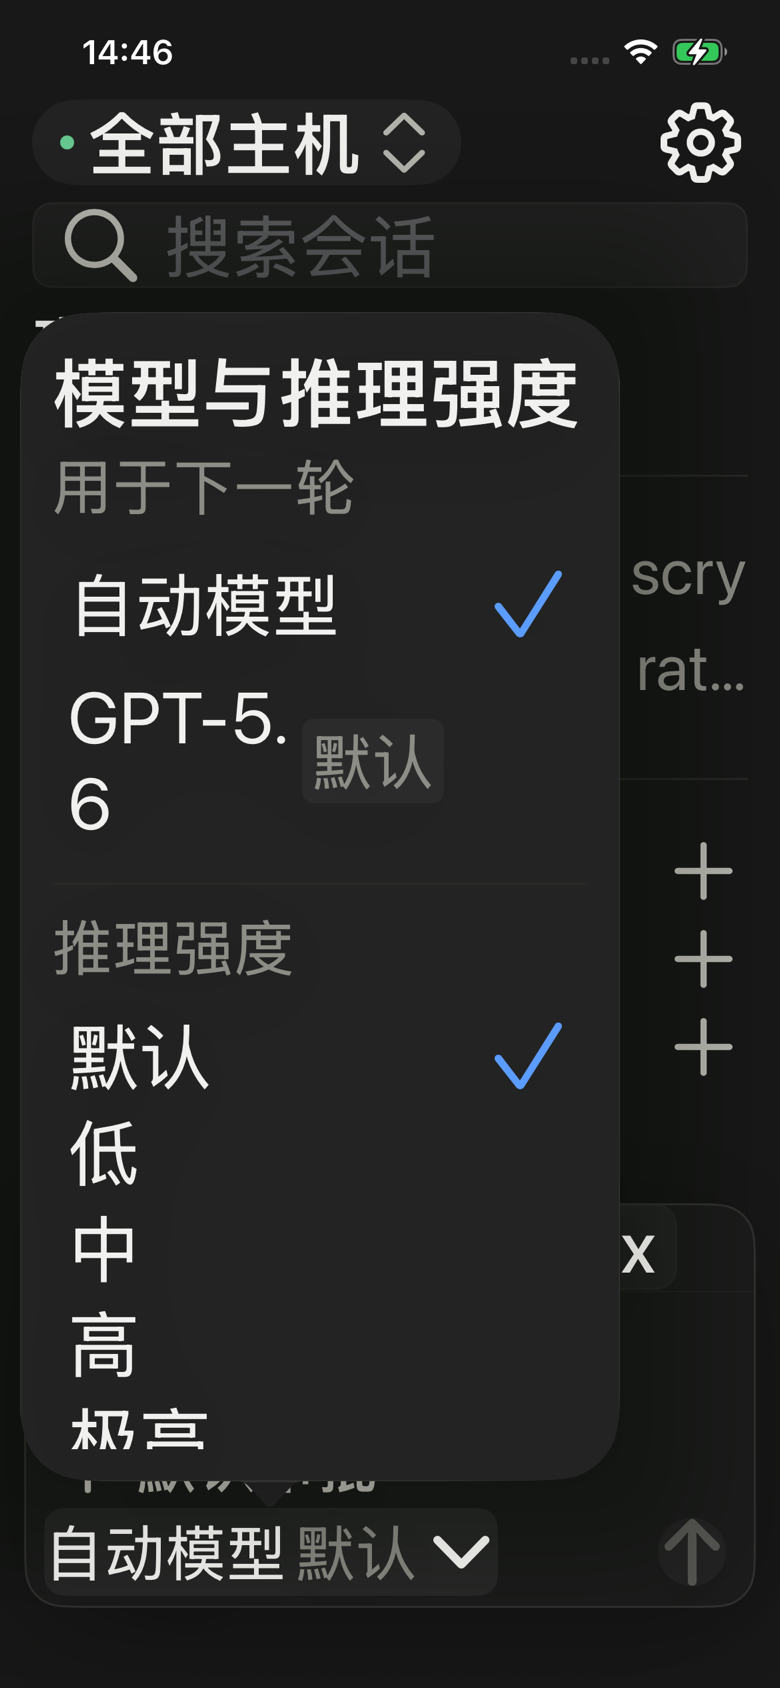
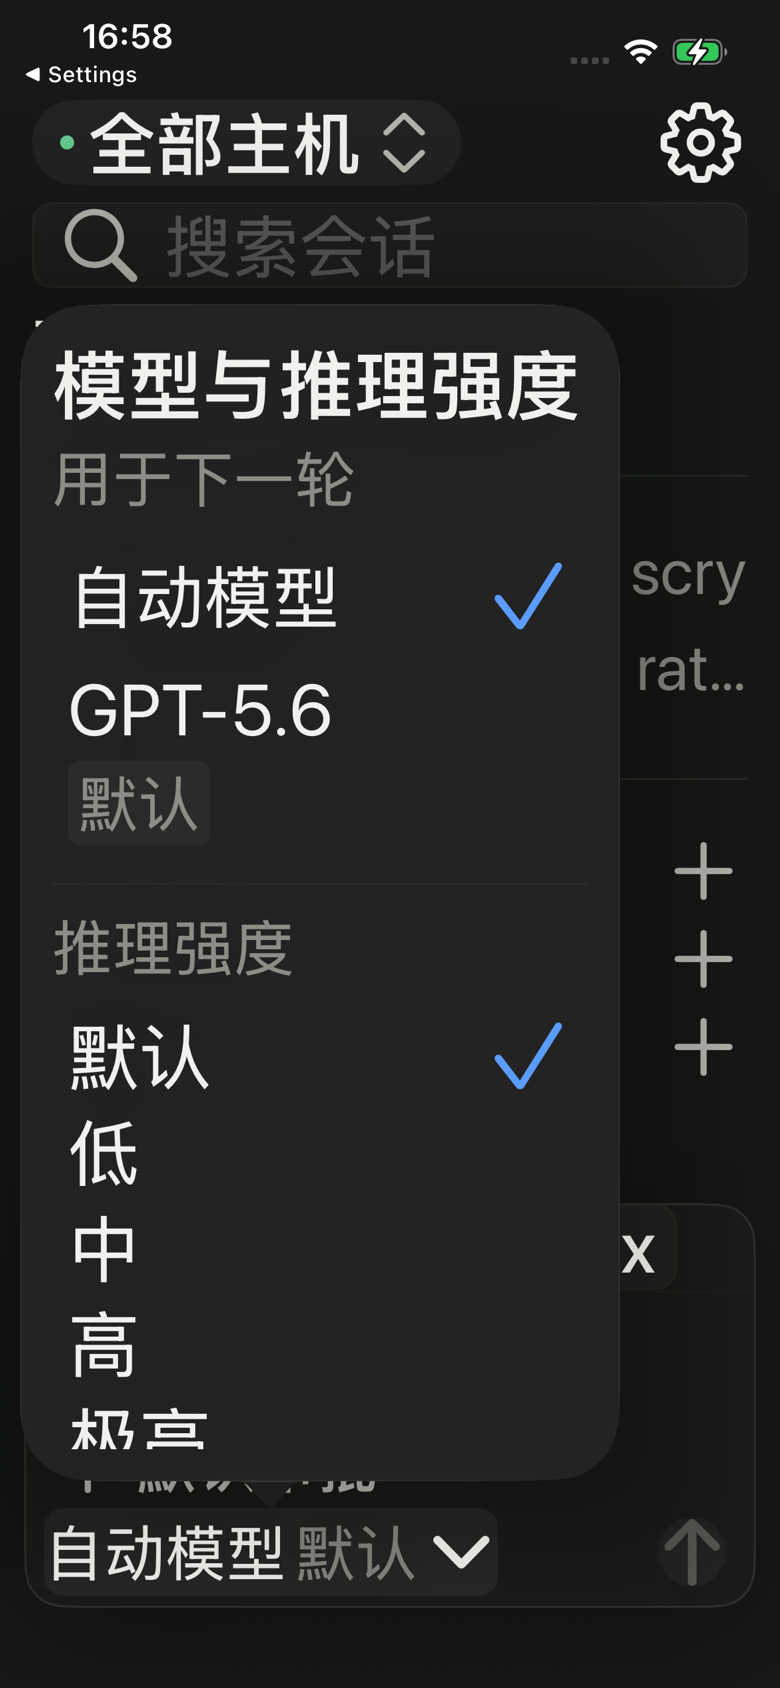
fix(ios): address R5 text contrast and model title review

diff --git a/apps/ios/ScryRemote/Components.swift b/apps/ios/ScryRemote/Components.swift
@@ -102,7 +102,8 @@ struct Notice: View {
     HStack(alignment: .top, spacing: 8) {
       Image(systemName: warning ? "exclamationmark.circle" : "info.circle")
         .font(Typography.meta.weight(.medium)).padding(.top, 1)
-      Text(text).font(Typography.meta).frame(maxWidth: .infinity, alignment: .leading)
+      Text(text).font(Typography.meta).foregroundStyle(warning ? Palette.warnText : Palette.dim)
+        .frame(maxWidth: .infinity, alignment: .leading)
     }
     .foregroundStyle(warning ? Palette.warn : Palette.dim)
     .padding(.vertical, 10).padding(.horizontal, 12)
@@ -200,6 +201,13 @@ struct SessionStatusStrip: View {
     case .warning: return Palette.warn
     }
   }
+  private var textColor: Color {
+    switch status.tone {
+    case .neutral: return Palette.dim
+    case .running: return Palette.accentText
+    case .attention, .warning: return Palette.warnText
+    }
+  }
   private var symbol: String {
     switch status.tone {
     case .attention: return "hand.raised"
@@ -213,7 +221,7 @@ struct SessionStatusStrip: View {
       if status.tone == .running { RunningRing(color: color).accessibilityHidden(true) }
       else if status.busy { ProgressView().controlSize(.mini).tint(color) }
       else { Image(systemName: symbol).font(Typography.meta.weight(.medium)) }
-      Text(status.text).fixedSize(horizontal: false, vertical: true)
+      Text(status.text).foregroundStyle(textColor).fixedSize(horizontal: false, vertical: true)
         .frame(maxWidth: .infinity, alignment: .leading)
       if let action = status.action {
         Button(action: action.perform) {
@@ -221,7 +229,7 @@ struct SessionStatusStrip: View {
             .frame(minWidth: 44, minHeight: 44).contentShape(Rectangle())
         }
         .buttonStyle(.plain)
-        .foregroundStyle(action.destructive ? Palette.bad : color)
+        .foregroundStyle(action.destructive ? Palette.bad : textColor)
         .disabled(action.disabled)
         .accessibilityIdentifier("session-status-action")
       }
@@ -244,7 +252,7 @@ struct LiveRunBadge: View {
   let live: G0Transport.LiveRun
   let waiting: Bool
   var body: some View {
-    let color = live.state == "stopping" ? Palette.dim : waiting ? Palette.warn : Palette.accent
+    let color = live.state == "stopping" ? Palette.dim : waiting ? Palette.warnText : Palette.accentText
     Text(ConversationCopy.liveState(mac: live.origin == "mac", stopping: live.state == "stopping", waiting: waiting))
       .font(Typography.meta.weight(.semibold)).foregroundStyle(color)
   }

diff --git a/apps/ios/ScryRemote/Sheets/ModelEffortPopover.swift b/apps/ios/ScryRemote/Sheets/ModelEffortPopover.swift
@@ -84,13 +84,9 @@ struct ModelEffortPopover: View {
   private func modelRow(_ label: String, description: String?, isDefault: Bool, selected: Bool) -> some View {
     HStack(spacing: 8) {
       VStack(alignment: .leading, spacing: 4) {
-        HStack(spacing: 6) {
-          Text(label).font(Typography.rowTitle).foregroundStyle(Palette.fg)
-          if isDefault {
-            Text(SheetCopy.defaultModel).font(Typography.meta).foregroundStyle(Palette.dim2)
-              .padding(.horizontal, 5).padding(.vertical, 2)
-              .background(Palette.subtle, in: RoundedRectangle(cornerRadius: 6))
-          }
+        ViewThatFits(in: .horizontal) {
+          modelTitle(label, isDefault: isDefault, stacked: false)
+          modelTitle(label, isDefault: isDefault, stacked: true)
         }
         if let description, !description.isEmpty {
           Text(description).font(Typography.meta).foregroundStyle(Palette.dim2)
@@ -102,6 +98,19 @@ struct ModelEffortPopover: View {
     }
     .padding(.horizontal, 8).padding(.vertical, 6)
     .frame(maxWidth: .infinity, minHeight: 46, alignment: .leading).contentShape(Rectangle())
+  }
+
+  private func modelTitle(_ label: String, isDefault: Bool, stacked: Bool) -> some View {
+    let layout = stacked ? AnyLayout(VStackLayout(alignment: .leading, spacing: 4)) : AnyLayout(HStackLayout(spacing: 6))
+    return layout {
+      Text(label).font(Typography.rowTitle).foregroundStyle(Palette.fg)
+        .lineLimit(1).fixedSize(horizontal: !stacked, vertical: false)
+      if isDefault {
+        Text(SheetCopy.defaultModel).font(Typography.meta).foregroundStyle(Palette.dim2)
+          .padding(.horizontal, 5).padding(.vertical, 2)
+          .background(Palette.subtle, in: RoundedRectangle(cornerRadius: 6))
+      }
+    }
   }
 
   private func effortSegment(_ label: String, id: String?) -> some View {

diff --git a/apps/ios/ScryRemote/SessionTranscriptPresentation.swift b/apps/ios/ScryRemote/SessionTranscriptPresentation.swift
@@ -56,13 +56,21 @@ struct ReadOnlySessionTranscriptView: View {
   }
 }
 
+struct HistoryRetryButton: View {
+  let title: String
+  let action: () -> Void
+  var body: some View {
+    Button(title, action: action)
+      .buttonStyle(.borderedProminent).tint(Palette.accentFill).foregroundStyle(Palette.onAccent)
+  }
+}
+
 extension SessionTranscriptView {
   @ViewBuilder var historyBody: some View {
     if run.activeSessionIdentity == sessionIdentity, run.historyCapacityLimit {
-      Button(ConversationCopy.loadHistory) {
+      HistoryRetryButton(title: ConversationCopy.loadHistory) {
         if let s = session { run.loadCompleteHistory(providerId: s.providerId, cwd: s.cwd, externalSessionId: s.externalSessionId, agentProfileId: s.agentProfileId) }
       }
-      .buttonStyle(.borderedProminent).tint(Palette.accentFill).foregroundStyle(Palette.onAccent)
       .disabled(run.historySyncing)
       .accessibilityHint(ConversationCopy.loadHistoryHint)
     }
@@ -104,12 +112,11 @@ extension SessionTranscriptView {
       EmptyView()
     case let .failed(reason):
       EmptyState(title: ConversationCopy.failedHistory, detail: ConversationCopy.failedHistoryDetail(reason), symbol: "exclamationmark.triangle")
-      Button(ConversationCopy.retryHistory) {
+      HistoryRetryButton(title: ConversationCopy.retryHistory) {
         if let s = session {
           run.loadHistory(providerId: s.providerId, cwd: s.cwd, externalSessionId: s.externalSessionId, force: true, agentProfileId: s.agentProfileId)
         }
       }
-      .buttonStyle(.borderedProminent).tint(Palette.accentFill).foregroundStyle(Palette.onAccent)
       .frame(maxWidth: .infinity)
       DisclosureGroup(ConversationCopy.errorDetails) { Text(reason).font(Typography.meta).textSelection(.enabled) }
         .font(Typography.meta).foregroundStyle(Palette.dim)

diff --git a/apps/ios/ScryRemote/Sheets/SheetPreview.swift b/apps/ios/ScryRemote/Sheets/SheetPreview.swift
@@ -5,7 +5,7 @@ import RemoteTransport
 // Isolated UI fixture: the production sheet and its real answer collector are
 // exercised without sending an answer/cancellation to a paired host.
 struct SheetPreview: View {
-  enum Mode: String { case single, multi, text, permission, submitting, error, effortsMany }
+  enum Mode: String { case single, multi, text, permission, submitting, error, effortsMany, historyCapacity, historyRetry }
   static var requestedMode: Mode? {
     let arguments = ProcessInfo.processInfo.arguments
     guard arguments.contains("-uiPreview"), let index = arguments.firstIndex(of: "-uiSheetFixture"),
@@ -20,7 +20,15 @@ struct SheetPreview: View {
   @State private var result = Copy.ready
 
   var body: some View {
-    if mode == .effortsMany { ModelEffortPreview() } else { questionBody }
+    if mode == .effortsMany { ModelEffortPreview() }
+    else if mode == .historyCapacity || mode == .historyRetry {
+      VStack(spacing: 24) {
+        Text(Copy.historyTitle).font(Typography.sheetTitle)
+        HistoryRetryButton(title: mode == .historyCapacity ? ConversationCopy.loadHistory : ConversationCopy.retryHistory, action: {})
+      }
+      .frame(maxWidth: .infinity, maxHeight: .infinity)
+      .foregroundStyle(Palette.fg).background(Palette.main)
+    } else { questionBody }
   }
 
   private var questionBody: some View {
@@ -74,6 +82,7 @@ struct SheetPreview: View {
 
   private enum Copy {
     static let title = "问题 Sheet 检查（Mock）"
+    static let historyTitle = "历史按钮外观检查（Mock）"
     static let session = "核对界面改动"
     static let ready = "尚未调用回调"
     static let cancelled = "取消回调已调用"

diff --git a/apps/ios/ScryRemote/MessageComposer.swift b/apps/ios/ScryRemote/MessageComposer.swift
@@ -83,7 +83,7 @@ struct MessageComposer: View {
       }
       VStack(alignment: .leading, spacing: 0) {
         if let submissionError {
-          Text(submissionError).font(Typography.meta).foregroundStyle(Palette.warn).padding(.top, 8)
+          Text(submissionError).font(Typography.meta).foregroundStyle(Palette.warnText).padding(.top, 8)
         }
         if slashToken != nil && !disabled { slashMenu.padding(.bottom, 8) }
         if !attachments.isEmpty {
@@ -167,7 +167,7 @@ struct MessageComposer: View {
             HStack(alignment: .firstTextBaseline, spacing: 10) {
               Text("/\(command.name)")
                 .font(Typography.mono.weight(.semibold))
-                .foregroundStyle(Palette.accent)
+                .foregroundStyle(Palette.accentText)
               VStack(alignment: .leading, spacing: 2) {
                 if !command.description.isEmpty {
                   Text(command.description).font(Typography.meta).foregroundStyle(Palette.fg).lineLimit(2)

diff --git a/apps/ios/ScryRemote/ConversationMarkdown.swift b/apps/ios/ScryRemote/ConversationMarkdown.swift
@@ -219,7 +219,7 @@ private struct ConversationMarkdownInline: View {
     Text(rendered).font(font.weight(weight))
       .foregroundStyle(muted ? Palette.dim : Palette.fg)
       .lineSpacing(Typography.replyLineSpacing).textSelection(.enabled)
-      .tint(Palette.accent).multilineTextAlignment(alignment)
+      .tint(Palette.accentText).multilineTextAlignment(alignment)
       .frame(maxWidth: .infinity, alignment: alignment == .trailing ? .trailing : alignment == .center ? .center : .leading)
   }
 }
@@ -305,7 +305,7 @@ struct ConversationMarkdownText: View {
       }
     case let .ordered(marker):
       HStack(alignment: .firstTextBaseline, spacing: 9) {
-        Text(marker).font(Typography.reply.weight(.semibold)).foregroundStyle(Palette.accent)
+        Text(marker).font(Typography.reply.weight(.semibold)).foregroundStyle(Palette.accentText)
           .frame(minWidth: 22, alignment: .trailing)
         ConversationMarkdownInline(source: block.text, muted: muted)
       }

diff --git a/apps/ios/ScryRemote/CatalogRefreshFeedback.swift b/apps/ios/ScryRemote/CatalogRefreshFeedback.swift
@@ -23,7 +23,7 @@ struct CatalogRefreshBanner: View {
   var body: some View {
     VStack(alignment: .leading, spacing: 7) {
       HStack(alignment: .top, spacing: 8) {
-        Image(systemName: "exclamationmark.circle").font(Typography.rowTitle.weight(.medium)).padding(.top, 1)
+        Image(systemName: "exclamationmark.circle").font(Typography.rowTitle.weight(.medium)).foregroundStyle(Palette.warn).padding(.top, 1)
         VStack(alignment: .leading, spacing: 3) {
           Text(title).font(Typography.groupLabel)
           Text(ConnectionCopy.lastFullRefresh(lastFullRefresh)).font(Typography.meta)
@@ -37,7 +37,7 @@ struct CatalogRefreshBanner: View {
           .frame(minWidth: 44, minHeight: 44)
       }
     }
-    .foregroundStyle(Palette.warn).padding(12)
+    .foregroundStyle(Palette.warnText).padding(12)
     .background(Palette.panel2, in: RoundedRectangle(cornerRadius: 12, style: .continuous))
     .padding(.horizontal, 16).padding(.vertical, 8)
   }

diff --git a/apps/ios/ScryRemote/Sheets/MCPPanel.swift b/apps/ios/ScryRemote/Sheets/MCPPanel.swift
@@ -117,17 +117,16 @@ extension ToolPanelView {
       Text(ConnectionCopy.mcpSeverity(severity)).font(.system(size: 10, weight: .semibold))
         .foregroundStyle(count > 0 ? Palette.fg : Palette.dim2)
       Text("\(count)").font(.system(size: 10, weight: .bold))
-        .foregroundStyle(count > 0 ? severityColor(severity) : Palette.dim2)
+        .foregroundStyle(count > 0 ? severityColor(severity, forText: true) : Palette.dim2)
     }
     .padding(.horizontal, 6).frame(minHeight: 20)
     .background(Palette.panel2, in: Capsule())
   }
 
-  private func severityColor(_ severity: String) -> Color {
+  private func severityColor(_ severity: String, forText: Bool = false) -> Color {
     switch severity {
     case "critical": return Palette.bad
-    case "high": return Palette.warn
-    case "medium": return Palette.warn
+    case "high", "medium": return forText ? Palette.warnText : Palette.warn
     default: return Palette.dim
     }
   }

diff --git a/apps/ios/ScryRemote/ConversationTurns.swift b/apps/ios/ScryRemote/ConversationTurns.swift
@@ -65,7 +65,7 @@ struct ConversationChunk: View {
     case "reasoning", "tool", "tool_result": evidenceDetail
     case "truncated":
       Label(text, systemImage: "exclamationmark.triangle")
-        .font(Typography.meta).foregroundStyle(Palette.warn)
+        .font(Typography.meta).foregroundStyle(Palette.warnText)
         .padding(.vertical, 8).padding(.horizontal, 10)
         .background(Palette.warn.opacity(0.12), in: RoundedRectangle(cornerRadius: 12))
     default: ConversationMarkdownText(source: text)
@@ -349,7 +349,7 @@ struct TurnOutcomeNote: View {
   var body: some View {
     Label(text, systemImage: "exclamationmark.circle")
       .font(Typography.meta.weight(.medium))
-      .foregroundStyle(failed ? Palette.bad : Palette.warn)
+      .foregroundStyle(failed ? Palette.bad : Palette.warnText)
       .frame(maxWidth: .infinity, minHeight: 32, alignment: .leading)
       .accessibilityIdentifier("turn-outcome")
   }

diff --git a/apps/ios/ScryRemote/ToolPanels.swift b/apps/ios/ScryRemote/ToolPanels.swift
@@ -88,7 +88,7 @@ struct ToolPanelView: View {
         .font(.system(size: 11)).foregroundStyle(Palette.dim2)
       Spacer(minLength: 0)
       if let panel, isStale(panel) {
-        Text(ConnectionCopy.panelStale).font(.system(size: 10)).foregroundStyle(Palette.warn)
+        Text(ConnectionCopy.panelStale).font(.system(size: 10)).foregroundStyle(Palette.warnText)
       }
     }
   }
@@ -145,7 +145,7 @@ struct ToolPanelView: View {
         }
         if analytics.totals.costKnownRows < analytics.totals.turns {
           Text(ConnectionCopy.analyticsLowerBound).font(.system(size: 10, weight: .semibold))
-            .foregroundStyle(Palette.warn).padding(.horizontal, 6).frame(minHeight: 18)
+            .foregroundStyle(Palette.warnText).padding(.horizontal, 6).frame(minHeight: 18)
             .background(Palette.warn.opacity(0.12), in: Capsule())
         }
       }

diff --git a/apps/ios/ScryRemote/SessionRow.swift b/apps/ios/ScryRemote/SessionRow.swift
@@ -47,7 +47,7 @@ struct SessionRowView: View {
     if let live = store.liveRun(providerId: session.providerId, cwd: session.cwd,
                                 externalSessionId: session.externalSessionId, agentProfileId: session.agentProfileId) {
       if store.openLiveQuestion(live) != nil {
-        Text(ConnectionCopy.homeWaiting).font(Typography.meta.weight(.semibold)).foregroundStyle(Palette.warn)
+        Text(ConnectionCopy.homeWaiting).font(Typography.meta.weight(.semibold)).foregroundStyle(Palette.warnText)
           .padding(.horizontal, 6).padding(.vertical, 3)
           .background(Palette.warn.opacity(0.12), in: RoundedRectangle(cornerRadius: 6))
       } else {

diff --git a/apps/ios/ScryRemote/Sheets/RemoteQuestionSheet.swift b/apps/ios/ScryRemote/Sheets/RemoteQuestionSheet.swift
@@ -49,7 +49,7 @@ struct RemoteQuestionSheet: View {
       ScrollView {
         VStack(alignment: .leading, spacing: 20) {
           Text(request.questionKind == "permission" ? SheetCopy.permission : SheetCopy.input)
-            .font(Typography.meta.weight(.medium)).foregroundStyle(Palette.warn)
+            .font(Typography.meta.weight(.medium)).foregroundStyle(Palette.warnText)
             .padding(.horizontal, 8).padding(.vertical, 5)
             .background(Palette.warn.opacity(0.12), in: RoundedRectangle(cornerRadius: 6))
           ForEach(Array(request.questions.enumerated()), id: \.offset) { index, question in
